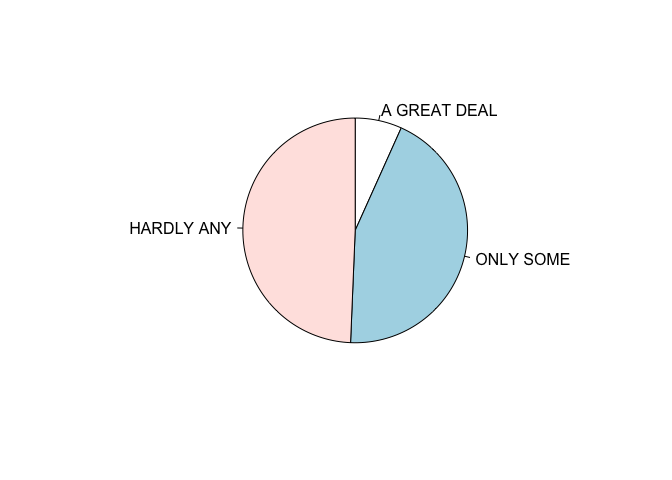
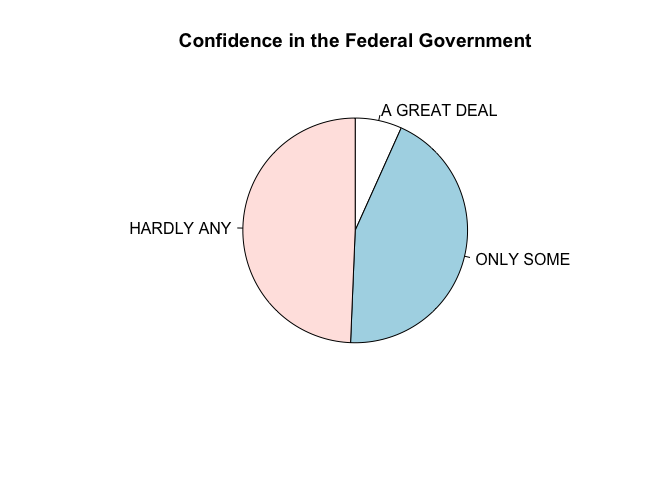
Finished HW7

Changed region(s): [[0.25, 0.0625, 0.8125, 0.125]]

diff --git a/students/shi_mengchen/Assignment7/HW7_write-up.md b/students/shi_mengchen/Assignment7/HW7_write-up.md
@@ -37,7 +37,7 @@ gss %>%
   count(confed) %>%
   na.omit() %>%
   mutate(pct = n / sum(n)) %>%
-  with(pie(pct, labels = confed, clockwise = TRUE))
+  with(pie(pct, labels = confed, clockwise = TRUE, main = "Confidence in the Federal Government"))
 ```
 
 ![](HW7_write-up_files/figure-markdown_github-ascii_identifiers/unnamed-chunk-2-1.png)
@@ -108,7 +108,7 @@ gss %>%
   count(conjudge) %>%
   na.omit() %>%
   mutate(pct = n / sum(n)) %>%
-  with(pie(pct, labels = conjudge, clockwise = TRUE))
+  with(pie(pct, labels = conjudge, clockwise = TRUE, main = "Confidence in the U.S. Supreme Court"))
 ```
 
 ![](HW7_write-up_files/figure-markdown_github-ascii_identifiers/unnamed-chunk-6-1.png)
@@ -141,7 +141,7 @@ gss %>%
   count(conlegis) %>%
   na.omit() %>%
   mutate(pct = n / sum(n)) %>%
-  with(pie(pct, labels = conlegis, clockwise = TRUE))
+  with(pie(pct, labels = conlegis, clockwise = TRUE, main = "Confidence in the Federal Government"))
 ```
 
 ![](HW7_write-up_files/figure-markdown_github-ascii_identifiers/unnamed-chunk-8-1.png)
